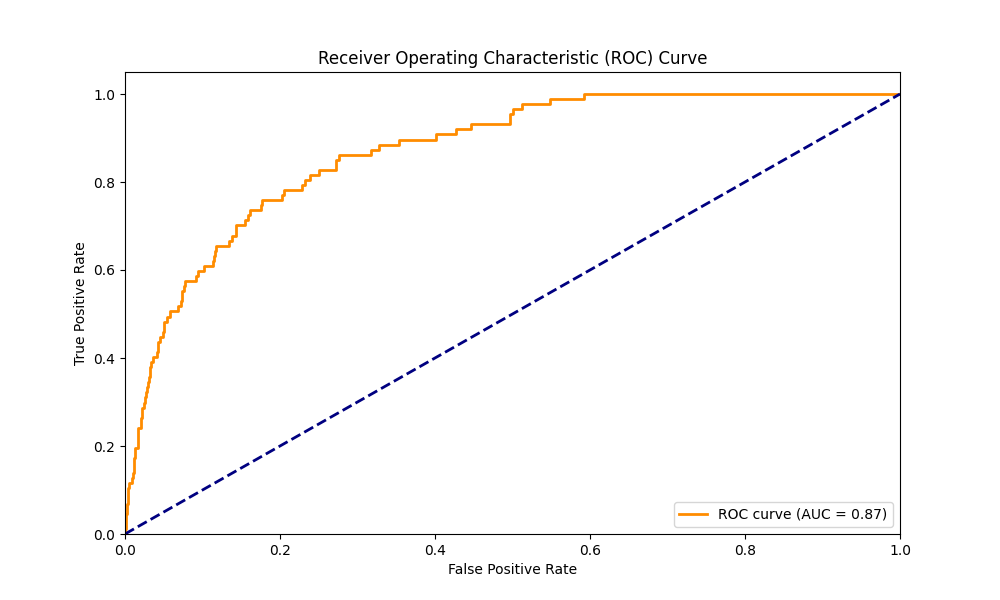
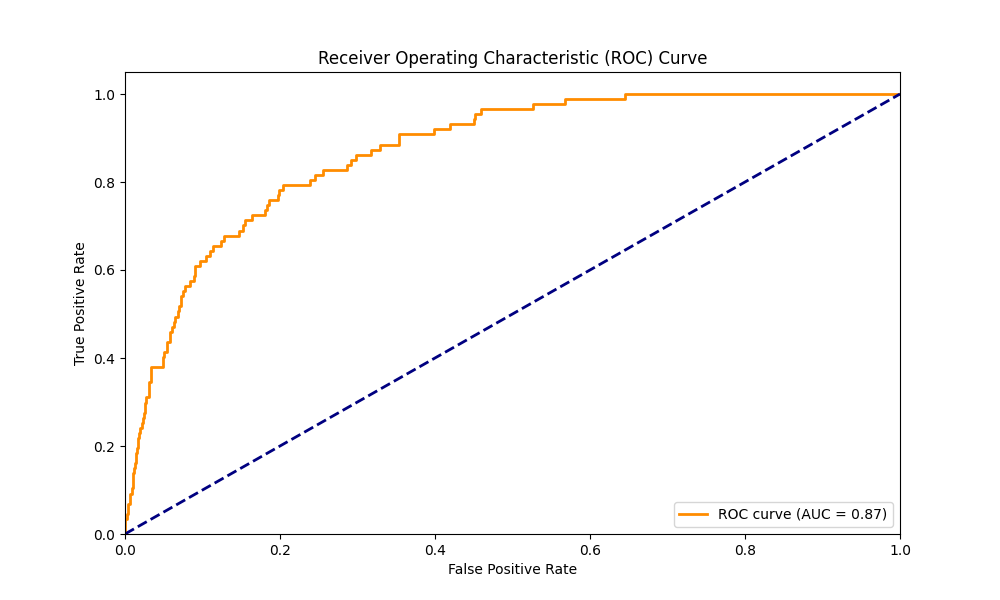
could yeald a better results, will test it tomorow

diff --git a/trainer/trainer.py b/trainer/trainer.py
@@ -78,7 +78,7 @@ def train():
                 print(f"Ppositive class weight: {pos_weight.item():.2f}")
                 print(f"Malignant count: {malignant_count} --> using focal loss")
                 pos_weight=pos_weight.to(device)
-                loss_fn = FocalLoss(alpha=0.85, gamma=3, reduction="mean", pos_weight=pos_weight)
+                loss_fn = FocalLoss(alpha=0.95, gamma=2, reduction="mean", pos_weight=pos_weight)
             else:
                 print("WARNING: No malignant samples found in dataset, using unweighted loss")
                 loss_fn = nn.BCEWithLogitsLoss()
